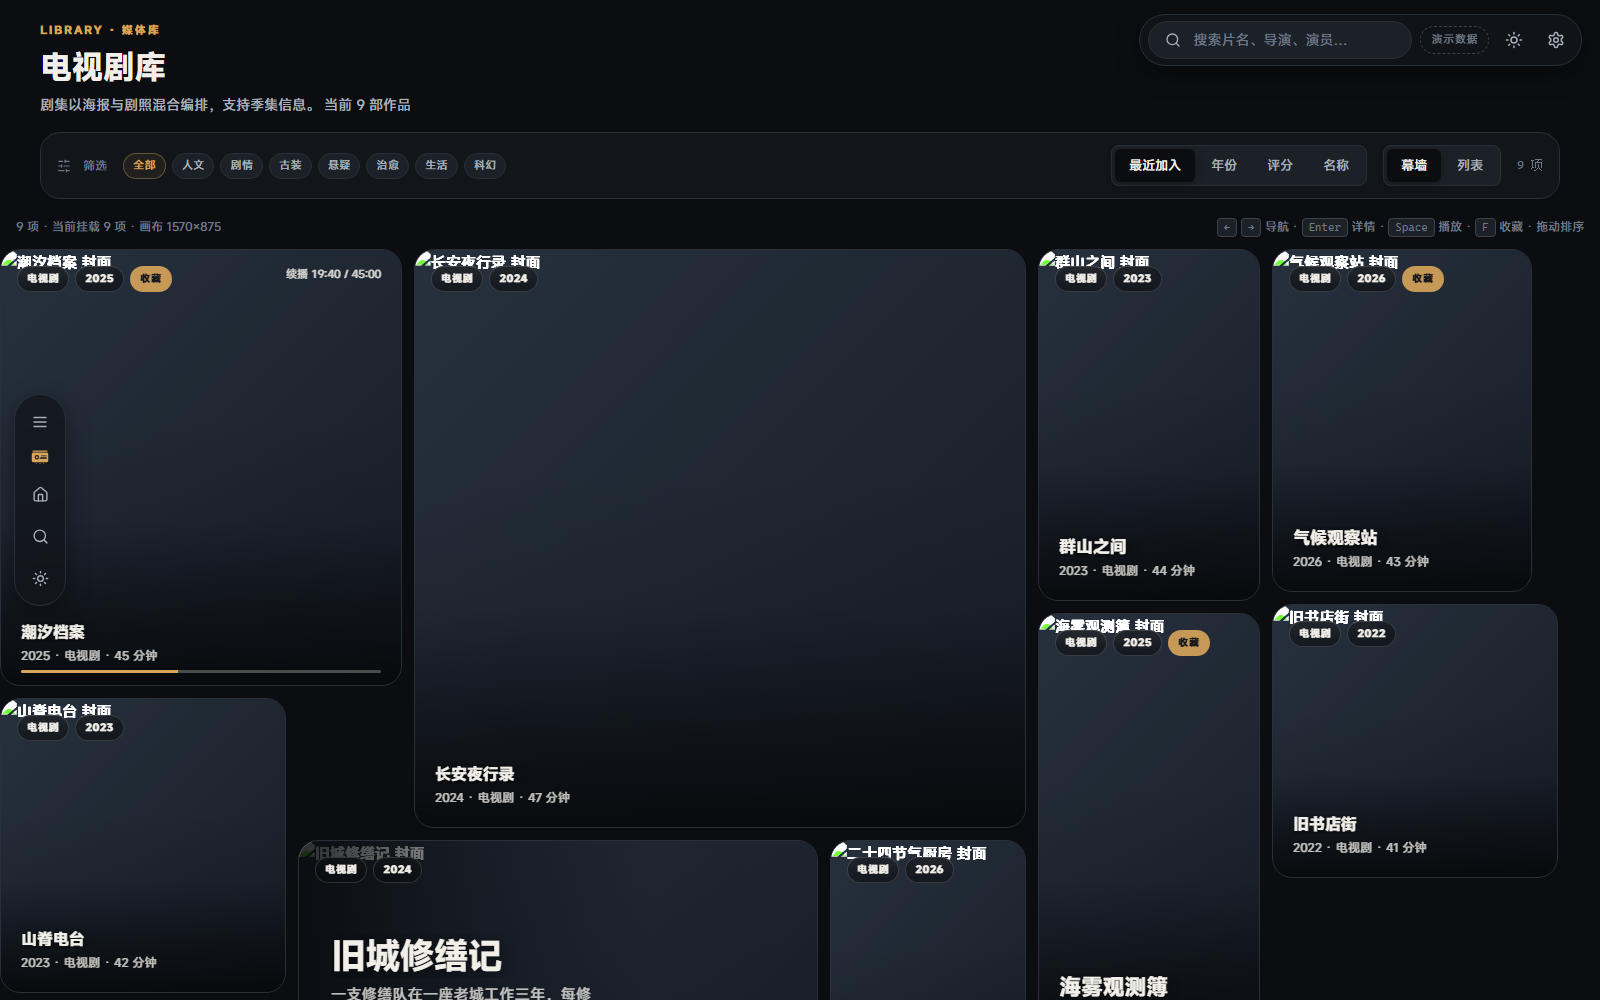
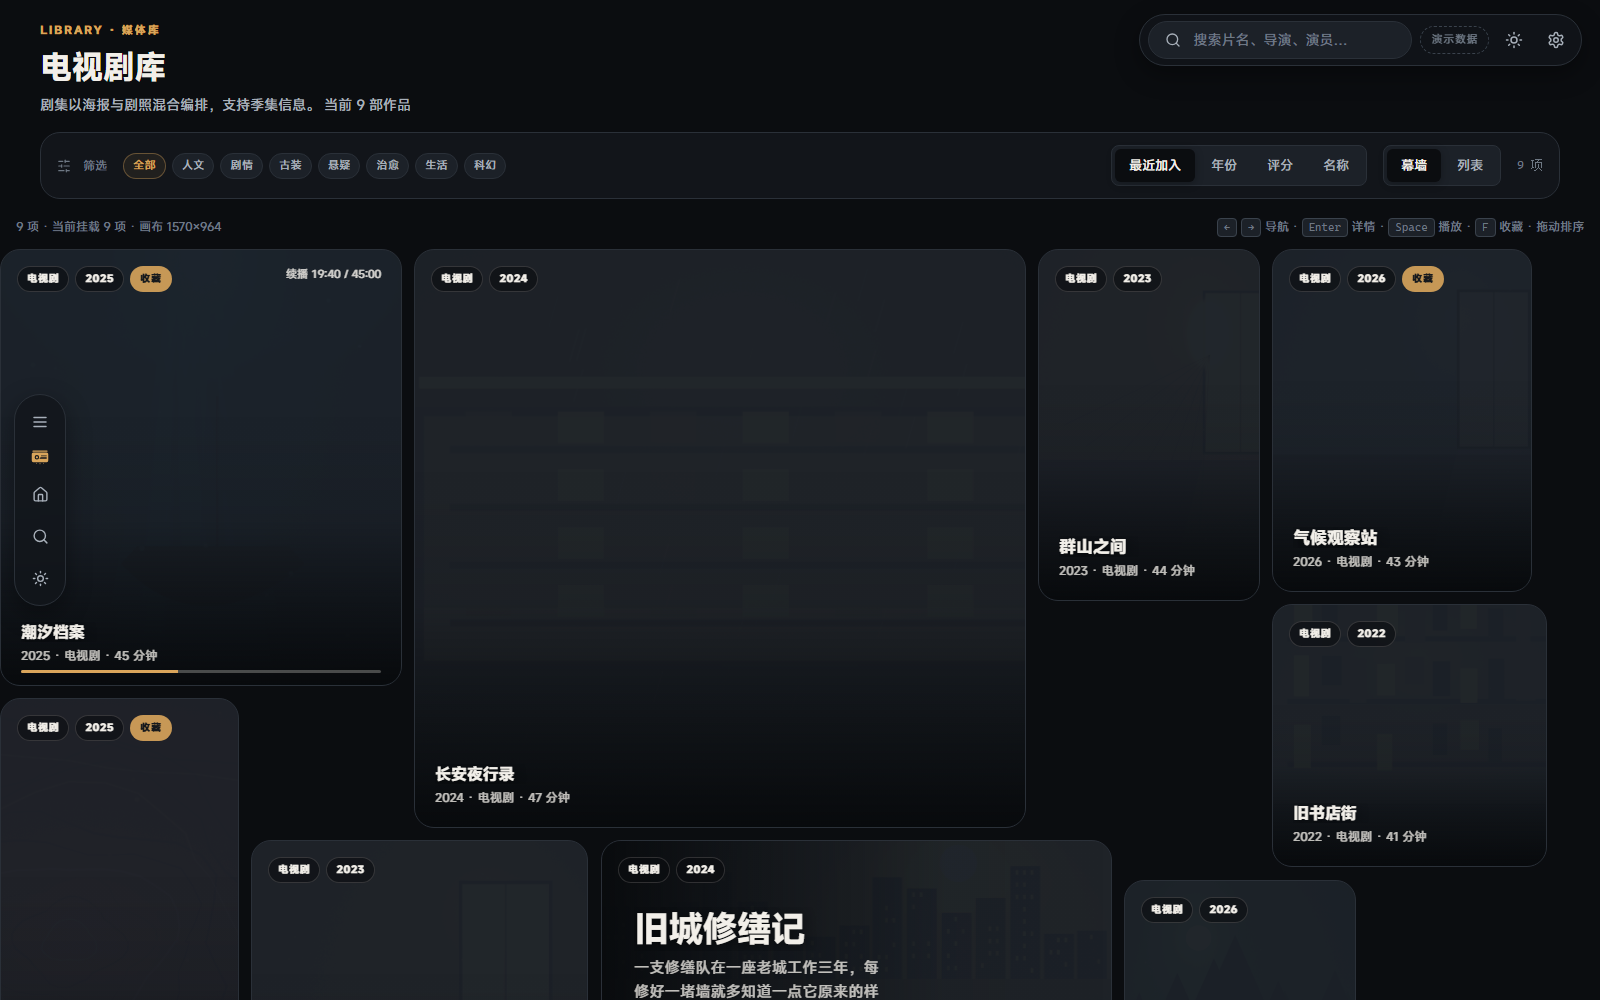
perf(ui): widen gap-filler candidates to reclaim mosaic holes
变更文件（13）：
- apps/desktop/src/lib/wall-layout.ts
- docs/design/screenshots/detail.png
- docs/design/screenshots/home-dark.png
- docs/design/screenshots/home-light.png
- docs/design/screenshots/library-movie.png
- docs/design/screenshots/library-tv.png
- docs/design/screenshots/nav-collapsed.png
- docs/design/screenshots/nav-expanded.png
- docs/design/screenshots/player.png
- docs/design/screenshots/search.png
- docs/design/screenshots/ultrawide.png
- docs/design/screenshots/viewport-probe.json
- docs/testing/performance-report.md

diff --git a/apps/desktop/src/lib/wall-layout.ts b/apps/desktop/src/lib/wall-layout.ts
@@ -340,7 +340,7 @@ export function computeMosaicLayout(items: MediaItem[], options: MosaicOptions =
     // 对 skyline 凹口生成「刚好填满」的候选以回收空隙，但用确定性 hash 门控：
     // 只有部分磁贴参与填洞，其余保持自由尺寸，避免所有卡片收敛到同一宽度。
     // 候选宽度再乘一个连续扰动系数，保证尺寸始终无级而非离散档位。
-    if (r2 > 0.4) {
+    if (r2 > 0.35 || index <= 2) {
       for (const segment of sky) {
         let opening = 0;
         for (const s of sky) {
@@ -348,7 +348,7 @@ export function computeMosaicLayout(items: MediaItem[], options: MosaicOptions =
           if (s.y > segment.y + 0.5) break;
           opening += s.width;
         }
-        const candidate = (opening - gap) * (0.92 + r3 * 0.1);
+        const candidate = (opening - gap) * (0.96 + r3 * 0.05);
         if (candidate >= minW && candidate <= maxW && !probes.some((p) => Math.abs(p - candidate) < 8)) {
           probes.push(candidate);
         }
@@ -363,7 +363,7 @@ export function computeMosaicLayout(items: MediaItem[], options: MosaicOptions =
       const ph = h + gap;
       const pos = findPosition(sky, pw, canvasWidth);
       // 轻微惩罚偏离目标宽度，但填满凹口带来的 y 收益远大于该惩罚
-      const score = pos.y + ph + Math.abs(w - baseW) * 0.35;
+      const score = pos.y + ph + Math.abs(w - baseW) * 0.25;
       if (!chosen || score < chosen.score) chosen = { x: pos.x, y: pos.y, w, h, ph, score };
     }
     const placed = chosen!;

diff --git a/docs/testing/performance-report.md b/docs/testing/performance-report.md
@@ -11,20 +11,23 @@
 `firstScreenMounted` 按「1080px 视口 + 上下各 700px overscan」模拟可见区间统计。
 数据由 `stress(n)` 复制演示条目生成唯一 Media ID，不使用重复对象引用。
 
-| 条目数 | 一次完整布局耗时 | 画布高度 | 首屏挂载磁贴 | 不同宽度值数量 |
-|---:|---:|---:|---:|---:|
-| 40 | 0.32 ms | 3,990 px | 16 | 39 |
-| 200 | 3.07 ms | 15,083 px | 19 | 145 |
-| 500 | 5.62 ms | 38,292 px | 16 | 262 |
-| 1000 | 12.99 ms | 75,425 px | 18 | 352 |
+| 条目数 | 一次完整布局耗时（多轮实测区间） | 画布高度 | 首屏挂载磁贴 | 不同宽度值数量 |
+|---:|---|---:|---:|---:|
+| 40 | 0.3 – 0.5 ms | 3,496 px | 17 | 34 |
+| 200 | 2.2 – 3.6 ms | 14,031 px | 22 | 136 |
+| 500 | 5.6 – 9.3 ms | 35,973 px | 20 | 237 |
+| 1000 | 13 – 23 ms | 72,651 px | 16 | 340 |
+
+> 耗时取多轮运行区间，不取单次最优值；Vitest 转换缓存与机器负载会造成 2–3 倍波动。
+> 画布高度与挂载量取自同一轮稳定输出。
 
 结论：
 
-- 布局耗时随条目数近似线性增长，1000 条约 13 ms，远低于一帧预算。
-- **首屏挂载量与总条目数无关**（16–19 个），因为渲染层按绝对 y 坐标裁剪，
+- 布局耗时随条目数近似线性增长，1000 条在 13–23 ms 之间，远低于一帧预算。
+- **首屏挂载量与总条目数无关**（16–22 个），因为渲染层按绝对 y 坐标裁剪，
   而不是把 1000 个节点全部挂到 DOM 上；这是真正的可见区域虚拟化，
   旧版「每批追加 24 个」只是增量渲染，不属于虚拟化。
-- 不同宽度值数量持续上升（40 条时 39 种、1000 条时 352 种），
+- 不同宽度值数量持续上升（40 条时 34 种、1000 条时 340 种），
   说明尺寸是连续计算而非固定六档。
 
 ## 2. 四种分辨率 / 画布适配
@@ -34,12 +37,12 @@
 
 | 画布宽 | 画布高 | 磁贴数 | 最大/最小面积比 | 右边界溢出 | 重叠 |
 |---:|---:|---:|---:|:---:|:---:|
-| 1280 | 3,413 | 52 | 15.5× | 无 | 0 |
-| 1920 | 5,032 | 52 | 15.2× | 无 | 0 |
-| 2560 | 5,040 | 52 | 14.3× | 无 | 0 |
-| 3440 | 4,436 | 52 | 27.5× | 无 | 0 |
+| 1280 | 3,309 | 52 | 15.0× | 无 | 0 |
+| 1920 | 4,818 | 52 | 15.4× | 无 | 0 |
+| 2560 | 4,573 | 52 | 16.5× | 无 | 0 |
+| 3440 | 3,866 | 52 | 21.7× | 无 | 0 |
 
-超宽屏（3440）上面积反差扩大到 27.5 倍，说明尺寸层次没有被拉平；
+超宽屏（3440）上面积反差扩大到 21.7×，说明尺寸层次没有被拉平；
 所有分辨率均无水平溢出、无磁贴重叠。
 
 ## 3. Windows 显示缩放（逻辑视口模拟）
